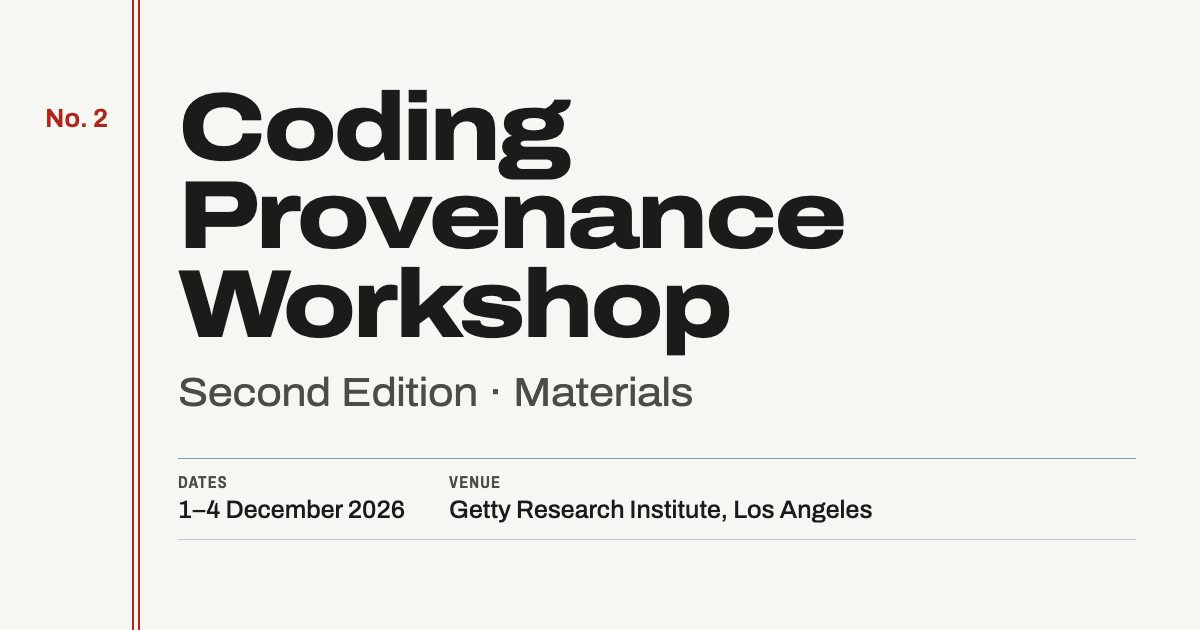
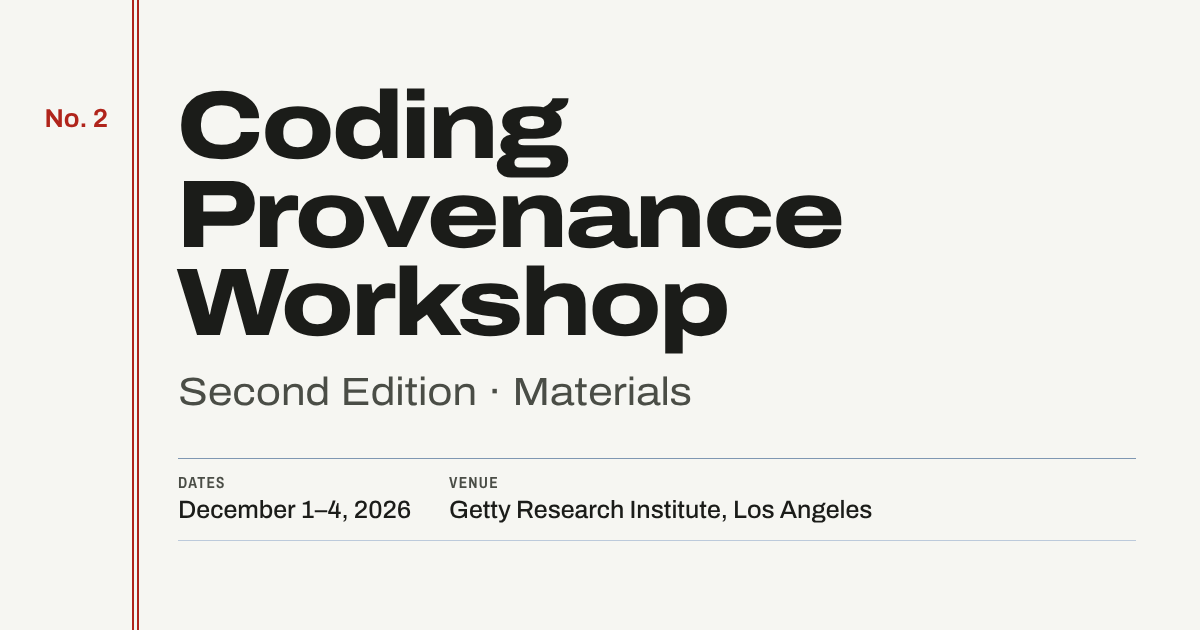
Share image: US date format (December 1–4, 2026)
Rebuilt images/og-card.png at 1200 × 630 with the same layout and fonts;
only the date changes. Its HTML source is kept in _tools/og-card.html
(not published) so it can be regenerated.

Claude-Session: https://claude.ai/code/session_01KBsKeay1CTw3tFYKg2E7E9

diff --git a/_tools/og-card.html b/_tools/og-card.html
@@ -1,0 +1,29 @@
+<!doctype html>
+<!-- Source of images/og-card.png, the share image (1200 × 630). To update it: edit the text below,
+     open this file in a browser at a 1200 × 630 viewport (device scale 1) and save a screenshot
+     over images/og-card.png. Quarto ignores folders that start with "_", so this is not published. -->
+<html><head><meta charset="utf-8">
+<style>
+@font-face { font-family: "Archivo"; src: url("../fonts/archivo-latin.woff2") format("woff2"); font-weight: 100 900; font-stretch: 62% 125%; }
+html, body { margin: 0; }
+body { width: 1200px; height: 630px; position: relative; overflow: hidden; background: #f6f6f2; color: #1b1c19; font-family: "Archivo", sans-serif; font-feature-settings: "kern"; }
+.rule { position: absolute; top: 0; bottom: 0; width: 2px; background: #b0241b; }
+.r1 { left: 132px; } .r2 { left: 137px; }
+.no { position: absolute; right: calc(1200px - 108px); top: 104px; color: #b0241b; font-weight: 650; font-size: 26px; font-feature-settings: "tnum", "lnum"; white-space: nowrap; }
+.title { position: absolute; left: 176px; top: 82px; margin: 0; font-weight: 800; font-stretch: 122%; font-size: 96px; line-height: 88.5px; letter-spacing: -0.03em; }
+.edition { position: absolute; left: 178px; top: 370px; margin: 0; font-weight: 400; font-stretch: 112%; font-size: 39.5px; color: #4a4d46; letter-spacing: -0.005em; }
+.record { position: absolute; left: 178px; right: 64px; top: 458px; height: 81px; border-top: 1px solid #7f97b2; border-bottom: 1px solid #bccadb; display: grid; grid-template-columns: 271px auto; }
+.field { padding-top: 15px; }
+.label { font-weight: 600; font-stretch: 75%; font-size: 16px; letter-spacing: 0.08em; text-transform: uppercase; color: #4a4d46; }
+.value { margin-top: 5px; font-weight: 500; font-size: 25px; font-feature-settings: "tnum", "lnum"; }
+</style></head>
+<body>
+  <div class="rule r1"></div><div class="rule r2"></div>
+  <div class="no">No. 2</div>
+  <h1 class="title">Coding<br>Provenance<br>Workshop</h1>
+  <p class="edition">Second Edition · Materials</p>
+  <div class="record">
+    <div class="field"><div class="label">Dates</div><div class="value">December 1–4, 2026</div></div>
+    <div class="field"><div class="label">Venue</div><div class="value">Getty Research Institute, Los Angeles</div></div>
+  </div>
+</body></html>
